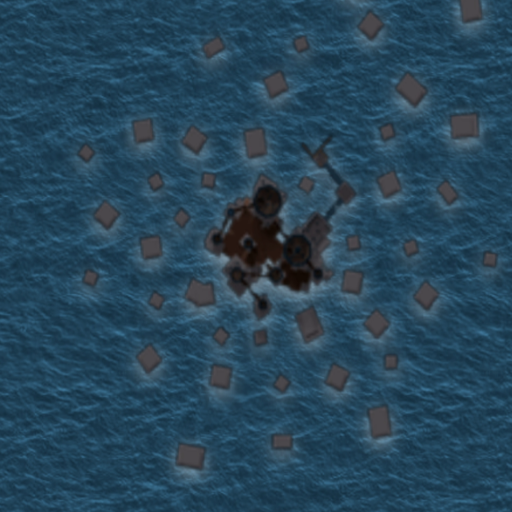
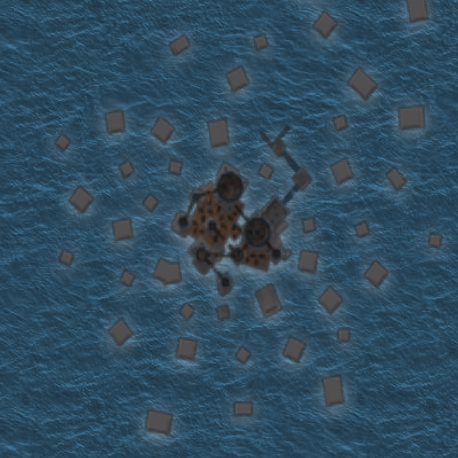
new islands, improved ui

Changed region(s): [[0.0, 0.0, 1.0, 1.0], [0.6725, 0.9782, 0.7031, 1.0]]

diff --git a/src/pages/Treasure.tsx b/src/pages/Treasure.tsx
@@ -5,15 +5,94 @@ import BrSmall from "../components/BrSmall";
 import Heading from "../components/Heading";
 import LeftRightControls from "../components/LeftRightControls";
 import paths from "../PathStuff";
+import TreasureIslandPicker from "../components/TreasureIslandPicker";
+import Checkbox from "../components/Checkbox";
 
-const directionNames = ["East", "East Southeast", "Southeast", "South Southeast", "South", "South Southwest", "Southwest", "West Southwest", "West", "West Northwest", "Northwest", "North Northwest", "North", "North Northeast", "Northeast", "East Northeast"];
-const distanceNames = ["Few paces", "Halfway", "On the edge"];
-const islandNames = [
-"Frostmill Island", "Ravenna", "Forest of Cernunno", "Shell Island",
-"Harvest Island", "Whitesummit", "Munera Garden", "Wind-Row Island",
-"Palo Town", "Blasted Rock", "Sameria", "Shale Reef", "Drakos Arch", "Claw Island"
-// "Thorin's Refuge", "Limestone Key", "Akursius Keep", "Silverhold"
+const directionNames = [
+    "East", "East Southeast", "Southeast", "South Southeast",
+    "South", "South Southwest", "Southwest", "West Southwest",
+    "West", "West Northwest", "Northwest", "North Northwest",
+    "North", "North Northeast", "Northeast", "East Northeast"
 ];
+const distanceNames = ["Few paces", "Halfway", "On the edge"];
+export const islandNames = [
+    "Frostmill Island", "Ravenna", "Forest of Cernunno", "Shell Island",
+    "Harvest Island", "Whitesummit", "Munera Garden", "Wind-Row Island",
+    "Palo Town", "Blasted Rock", "Thorin's Refuge", "Limestone Key",
+    "Akursius Keep", "Blackreach Island", "Thrylos Crossing", "Cedar Arch", "Ierochos",
+    "Sameria", "Shale Reef", "Drakos Arch", "Claw Island", "Makrinaos",
+    // "Silverhold"
+];
+export type Sea = "Bronze" | "Nimbus";
+export const islandInfo: {[key: string]: {sea: Sea}} = {
+    "Frostmill Island": {
+        sea: "Bronze"
+    },
+    "Ravenna": {
+        sea: "Bronze"
+    },
+    "Forest of Cernunno": {
+        sea: "Bronze"
+    },
+    "Shell Island": {
+        sea: "Bronze"
+    },
+    "Harvest Island": {
+        sea: "Bronze"
+    },
+    "Whitesummit": {
+        sea: "Bronze"
+    },
+    "Munera Garden": {
+        sea: "Bronze"
+    },
+    "Wind-Row Island": {
+        sea: "Bronze"
+    },
+    "Palo Town": {
+        sea: "Bronze"
+    },
+    "Blasted Rock": {
+        sea: "Bronze"
+    },
+    "Thorin's Refuge": {
+        sea: "Bronze"
+    },
+    "Limestone Key": {
+        sea: "Bronze"
+    },
+    "Akursius Keep": {
+        sea: "Bronze"
+    },
+    "Blackreach Island": {
+        sea: "Bronze"
+    },
+    "Thrylos Crossing": {
+        sea: "Bronze"
+    },
+    "Cedar Arch": {
+        sea: "Bronze"
+    },
+    "Ierochos": {
+        sea: "Bronze"
+    },
+    "Sameria": {
+        sea: "Nimbus"
+    },
+    "Shale Reef": {
+        sea: "Nimbus"
+    },
+    "Drakos Arch": {
+        sea: "Nimbus"
+    },
+    "Claw Island": {
+        sea: "Nimbus"
+    },
+    "Makrinaos": {
+        sea: "Nimbus"
+    },
+}
+
 const RADIUS = 256;
 
 // angle goes clockwise starting from the x-axis
@@ -21,22 +100,26 @@ function get2DComponents(angle: number, radius: number) {
     return {x: RADIUS + radius * Math.cos(angle), y: RADIUS + radius * Math.sin(angle)};
 }
 
+export function getImageSrc(selectedIsland: string) {
+    return `${paths.treasure}${selectedIsland}.png`;
+}
+
 export default function Treasure() {
     const [directionIndex, setDirectionIndex] = useState(0);
     const [distanceIndex, setDistanceIndex] = useState(0);
-    const [islandIndex, setIslandIndex] = useState(0);
+    const [selectedIsland, setSelectedIsland] = useState("Ravenna");
     const [imageSrc, setImageSrc] = useState("");
-    const [infoVisible, setInfoVisible] = useState(true);
+    const [showGrid, setShowGrid] = useState(true);
 
     const updateImageSrc = () => {
-        setImageSrc(`${paths.treasure}${islandNames[islandIndex]}.png`);
+        setImageSrc(getImageSrc(selectedIsland));
     }
     useEffect(() => {
         window.sessionStorage.setItem("direction", directionIndex.toString());
         window.sessionStorage.setItem("distance", distanceIndex.toString());
-        window.sessionStorage.setItem("island", islandIndex.toString());
+        window.sessionStorage.setItem("island", selectedIsland);
         updateImageSrc();
-    }, [directionIndex, distanceIndex, islandIndex]);
+    }, [directionIndex, distanceIndex, selectedIsland]);
     
     const angle = Math.PI * directionIndex / 8;
     const a1 = angle - Math.PI / 16, a2 = angle + Math.PI / 16
@@ -50,23 +133,21 @@ export default function Treasure() {
     const directionRight = () => setDirectionIndex((directionIndex + 1) % directionNames.length);
     const distanceLeft = () => setDistanceIndex((distanceIndex + distanceNames.length - 1) % distanceNames.length);
     const distanceRight = () => setDistanceIndex((distanceIndex + 1) % distanceNames.length);
-    const islandLeft = () => setIslandIndex((islandIndex + islandNames.length - 1) % islandNames.length);
-    const islandRight = () => setIslandIndex((islandIndex + 1) % islandNames.length);
 
-    const toggleInfo = () => {
-        const val = !infoVisible
-        setInfoVisible(val);
-        window.sessionStorage.setItem("showInfo", val ? "true" : "false");
+    const toggleGrid = () => {
+        const val = !showGrid
+        setShowGrid(val);
+        window.sessionStorage.setItem("showGrid", val ? "true" : "false");
     }
     
     useEffect(() => {
         if (window.sessionStorage.getItem("direction")) {
             setDirectionIndex(parseInt(window.sessionStorage.getItem("direction")!));
             setDistanceIndex(parseInt(window.sessionStorage.getItem("distance")!));
-            setIslandIndex(parseInt(window.sessionStorage.getItem("island")!));
+            setSelectedIsland(window.sessionStorage.getItem("island")!);
         }
-        if (window.sessionStorage.getItem("showInfo") === "false" && infoVisible)
-            toggleInfo();
+        if (window.sessionStorage.getItem("showGrid") === "false" && showGrid)
+            toggleGrid();
     }, []);
 
     return <div>
@@ -106,17 +187,32 @@ export default function Treasure() {
         <div>
             <LeftRightControls onLeft={directionLeft} onRight={directionRight}>{directionNames[directionIndex]}</LeftRightControls>
             <LeftRightControls onLeft={distanceLeft} onRight={distanceRight}>{distanceNames[distanceIndex]}</LeftRightControls>
-            <LeftRightControls onLeft={islandLeft} onRight={islandRight}>{islandNames[islandIndex]}</LeftRightControls>
+            <Checkbox className="show-grid" name="Show Grid" isChecked={showGrid} onChange={toggleGrid} />
         </div>
         <br/>
         <div>
-            <svg id="viewport" viewBox="0 0 512 512" width={512} height={512}>
+            <svg id="viewport" viewBox="0 0 512 512" width={512} height={512} stroke="rgba(0, 0, 0, 1)" strokeWidth={2} strokeLinecap="round" strokeLinejoin="round">
                 <image href={imageSrc} width={512} height={512} />
-                <g fill="rgba(0, 207, 11, .2)" stroke="rgba(0, 0, 0, 1)" strokeWidth={2} strokeLinecap="round" strokeLinejoin="round">
-                    <path d={`M ${xL1} ${yL1} L ${xL2} ${yL2} A ${RADIUS} ${RADIUS} 0 0 1 ${xU2} ${yU2} L ${xU1} ${yU1} A ${RADIUS} ${RADIUS} 0 0 0 ${xL1} ${yL1}`} />
+                { showGrid &&
+                    <g fill="none" stroke="rgba(0, 0, 0, .6)">
+                        {
+                            Array(16).fill(0).map((_, i) => {
+                                const {x, y} = get2DComponents(Math.PI * (i + .5) / 8, RADIUS);
+                                return <line key={i} x1={RADIUS} y1={RADIUS} x2={x} y2={y} />
+                            })
+                        }
+                        <circle cx={RADIUS} cy={RADIUS} r={RADIUS} fill="rgba(200, 200, 40, 0.05)" />
+                        <circle cx={RADIUS} cy={RADIUS} r={RADIUS * 2/3} />
+                        <circle cx={RADIUS} cy={RADIUS} r={RADIUS / 3} />
+                    </g>
+                }
+                <g fill="rgba(0, 207, 11, .2)">
+                    <path d={`M ${xL1} ${yL1} L ${xL2} ${yL2} A ${r2} ${r2} 0 0 1 ${xU2} ${yU2} L ${xU1} ${yU1} A ${r1} ${r1} 0 0 0 ${xL1} ${yL1}`} />
                 </g>
                 {/* <circle cx={xL1} cy={yL1} r={5} fill="red" /> */}
             </svg>
         </div>
+        <br/>
+        <TreasureIslandPicker selectedIsland={selectedIsland} onUpdate={setSelectedIsland} />
     </div>
 }

diff --git a/src/components/TreasureIslandPicker.tsx b/src/components/TreasureIslandPicker.tsx
@@ -1,0 +1,54 @@
+import { useRef, useState } from "react";
+import { getImageSrc, islandInfo, islandNames } from "../pages/Treasure";
+
+const IMAGE_SIZE = 144;
+
+interface IslandOptionProps {
+    islandName: string;
+    onClick: () => void;
+    onFocus: () => void;
+    selected: boolean;
+}
+
+const seaColors: {[key: string]: string} = {
+    Bronze: "rgb(205, 127, 50)",
+    Nimbus: "rgb(200, 200, 200)"
+};
+
+function IslandOption({ islandName, onClick, onFocus, selected }: IslandOptionProps) {
+    const onKeyDown = (e: React.KeyboardEvent<HTMLElement>) => e.key === "Enter" ? onClick() : e.key.length === 1 && onFocus();
+    return (
+        <div onKeyDown={onKeyDown} onMouseDown={(e) => { onClick(); e.preventDefault() }} className={`cursor-default p-1 h-min transition-colors duration-100 border-2 border-solid ${selected ? "!border-black border-[3px]" : ""}`} style={{borderColor: seaColors[islandInfo[islandName].sea]}} tabIndex={0}>
+            <div style={{maxWidth: IMAGE_SIZE}} className="text-sm text-nowrap text overflow-visible text-center mb-1">{islandName}</div>
+            <img className="block" src={getImageSrc(islandName)} width={IMAGE_SIZE} height={IMAGE_SIZE} />
+        </div>
+    )
+}
+
+interface TreasureIslandPickerProps {
+    selectedIsland: string;
+    onUpdate: (selectedIsland: string) => void;
+}
+
+export default function TreasureIslandPicker({ selectedIsland, onUpdate }: TreasureIslandPickerProps) {
+    const [searchStr, setSearchStr] = useState("");
+    const validIslands = islandNames.filter(name => name.toLowerCase().includes(searchStr.toLowerCase()));
+    if (validIslands.length === 1)
+        onUpdate(validIslands[0]);
+    const searchBarRef = useRef<HTMLInputElement>(null);
+    const onFocus = () => searchBarRef.current?.focus();
+
+    return (
+        <div>
+            <div>Island Name</div>
+            <input ref={searchBarRef} type="text" value={searchStr} onChange={e => setSearchStr(e.target.value)} />
+            <div className="mt-4 rounded-sm pr-2 pl-4 flex flex-row flex-wrap w-[60%] m-auto gap-x-4 gap-y-4 justify-center overflow-y-scroll h-[400px]">
+                {
+                    validIslands.length > 0 ?
+                        validIslands.map(islandName => <IslandOption key={islandName} islandName={islandName} onClick={() => onUpdate(islandName)} onFocus={onFocus} selected={islandName === selectedIsland} />) :
+                        <div className="text-sm">No matching islands</div>
+                }
+            </div>
+        </div>
+    )
+}
